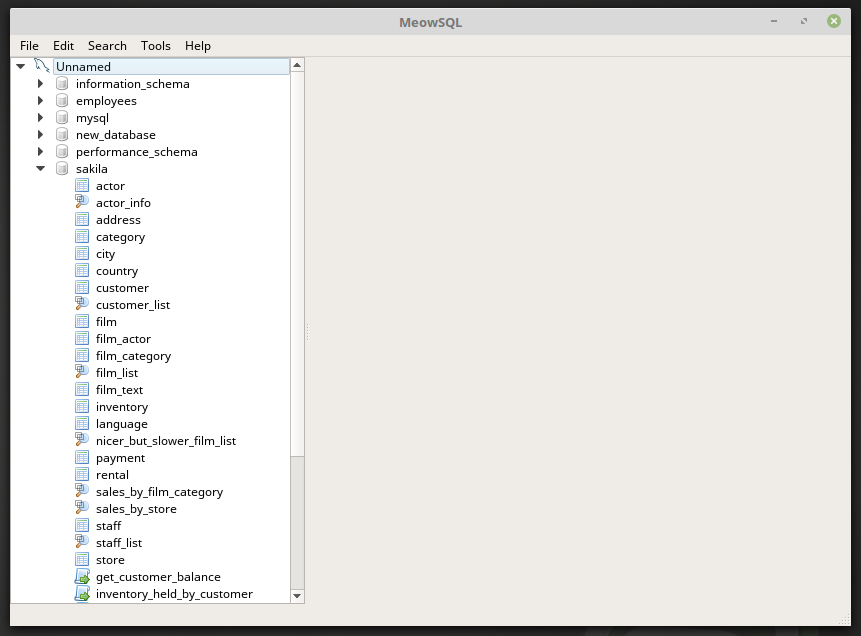
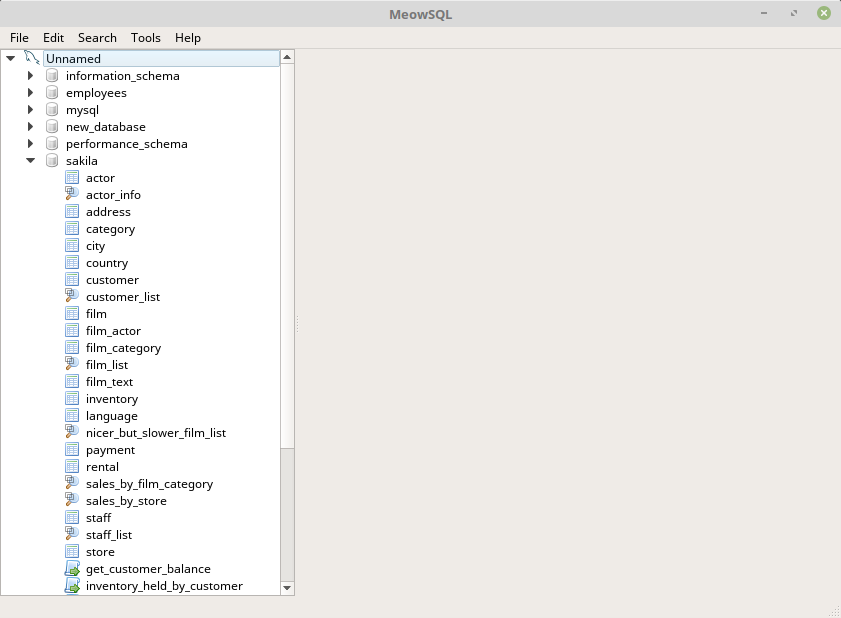
showing session on connection; lazy load of children in db entities tree

Changed region(s): [[0.0, 0.0, 1.0, 1.0]]

diff --git a/models/db/entities_tree_model.cpp b/models/db/entities_tree_model.cpp
@@ -15,7 +15,10 @@ EntitiesTreeModel::EntitiesTreeModel(
     connect(_dbConnectionsManager,
             &meow::db::ConnectionsManager::connectionOpened,
             [=](meow::db::SessionEntity * newSession) {
-                Q_UNUSED(newSession);
+
+                beginInsertRows(QModelIndex(), newSession->row(), newSession->row());
+                endInsertRows();
+                //emit layoutChanged();
             });
 
 }
@@ -33,6 +36,7 @@ QModelIndex EntitiesTreeModel::index(int row,
                              int column,
                              const QModelIndex &parent) const // override
 {
+
     if (!hasIndex(row, column, parent)) {
         return QModelIndex();
     }
@@ -71,10 +75,11 @@ QModelIndex EntitiesTreeModel::parent(const QModelIndex &index) const // overrid
 
 int EntitiesTreeModel::rowCount(const QModelIndex &parent) const // override
 {
-    meow::db::Entity * parentItem;
     if (parent.column() > 0) {
         return 0;
     }
+
+    meow::db::Entity * parentItem;
 
     if (!parent.isValid()) {
         parentItem = rootItem();
@@ -90,6 +95,22 @@ int EntitiesTreeModel::columnCount(const QModelIndex &parent) const // override
     Q_UNUSED(parent);
 
     return 1; // TODO: add size column later
+}
+
+bool EntitiesTreeModel::hasChildren(const QModelIndex &parent) const // override
+{
+    if (parent.isValid()) {
+        meow::db::Entity * parentItem = static_cast<meow::db::Entity *>(
+                                            parent.internalPointer()
+                                        );
+
+        if (parentItem->type() == meow::db::Entity::Type::Session
+            || parentItem->type() == meow::db::Entity::Type::Database) {
+            return true;
+        }
+    }
+
+    return QAbstractItemModel::hasChildren(parent);
 }
 
 QVariant EntitiesTreeModel::data(const QModelIndex &index, int role) const // override

diff --git a/models/db/entities_tree_model.h b/models/db/entities_tree_model.h
@@ -24,8 +24,7 @@ public:
     QModelIndex parent(const QModelIndex &index) const override;
     int rowCount(const QModelIndex &parent = QModelIndex()) const override;
     int columnCount(const QModelIndex &parent = QModelIndex()) const override;
-
-    //bool hasChildren(const QModelIndex &parent = QModelIndex()) const; // TODO
+    bool hasChildren(const QModelIndex &parent = QModelIndex()) const override;
 
 private:
     meow::db::Entity * rootItem() const { return _dbConnectionsManager; }
